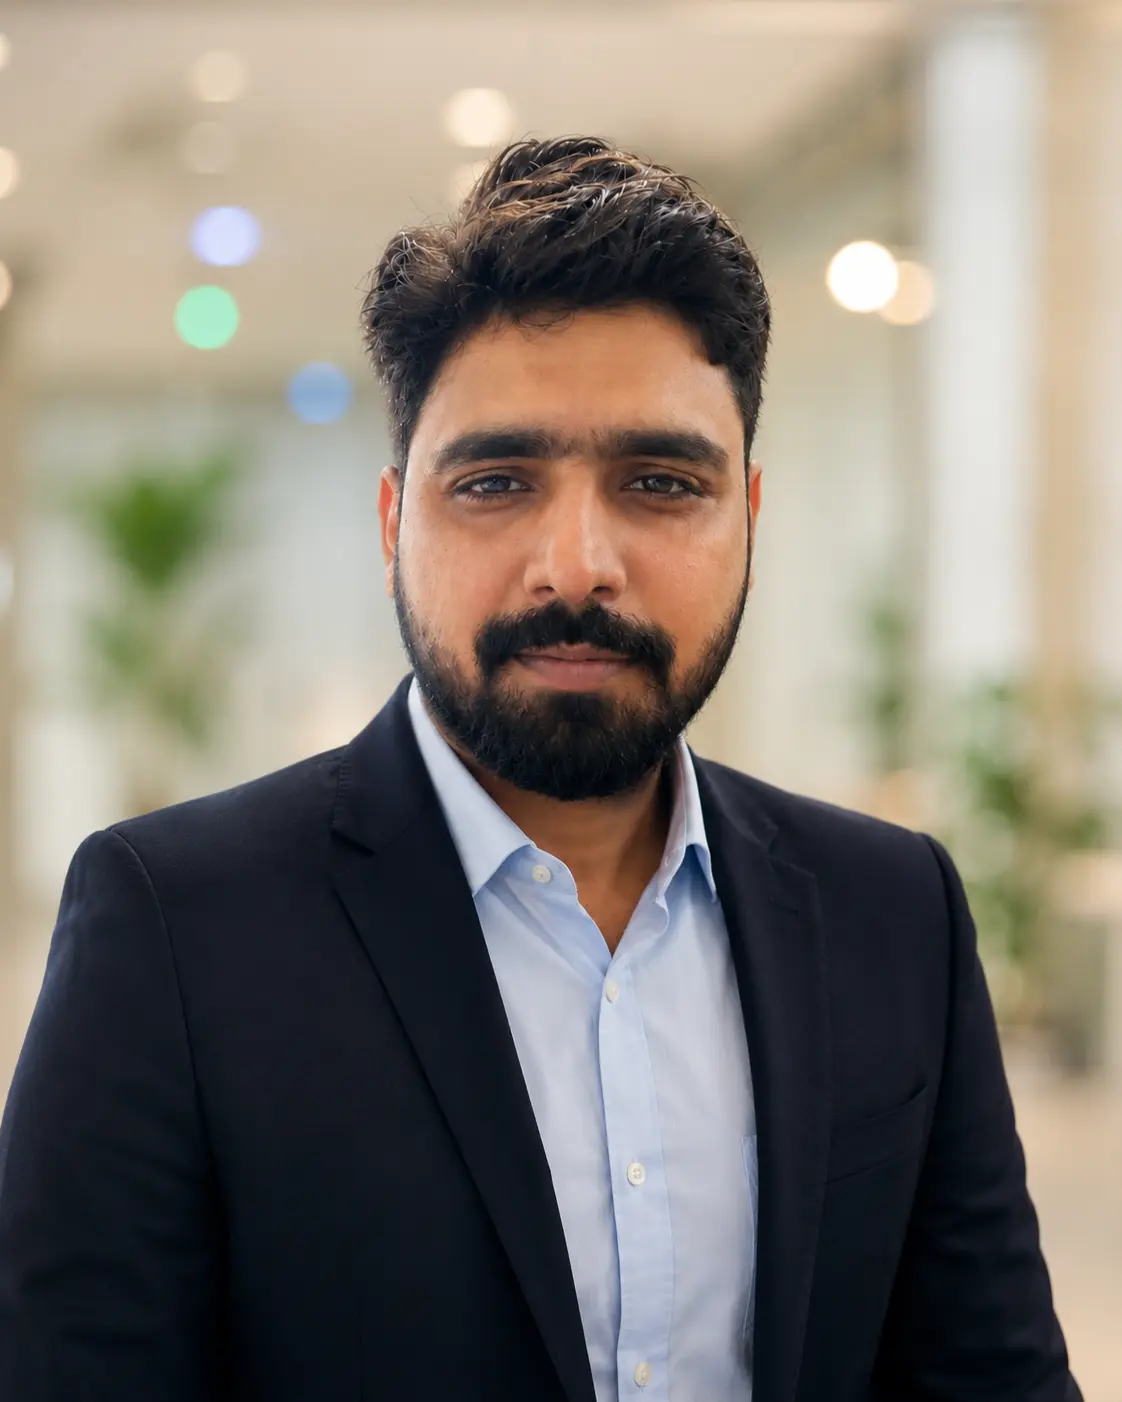
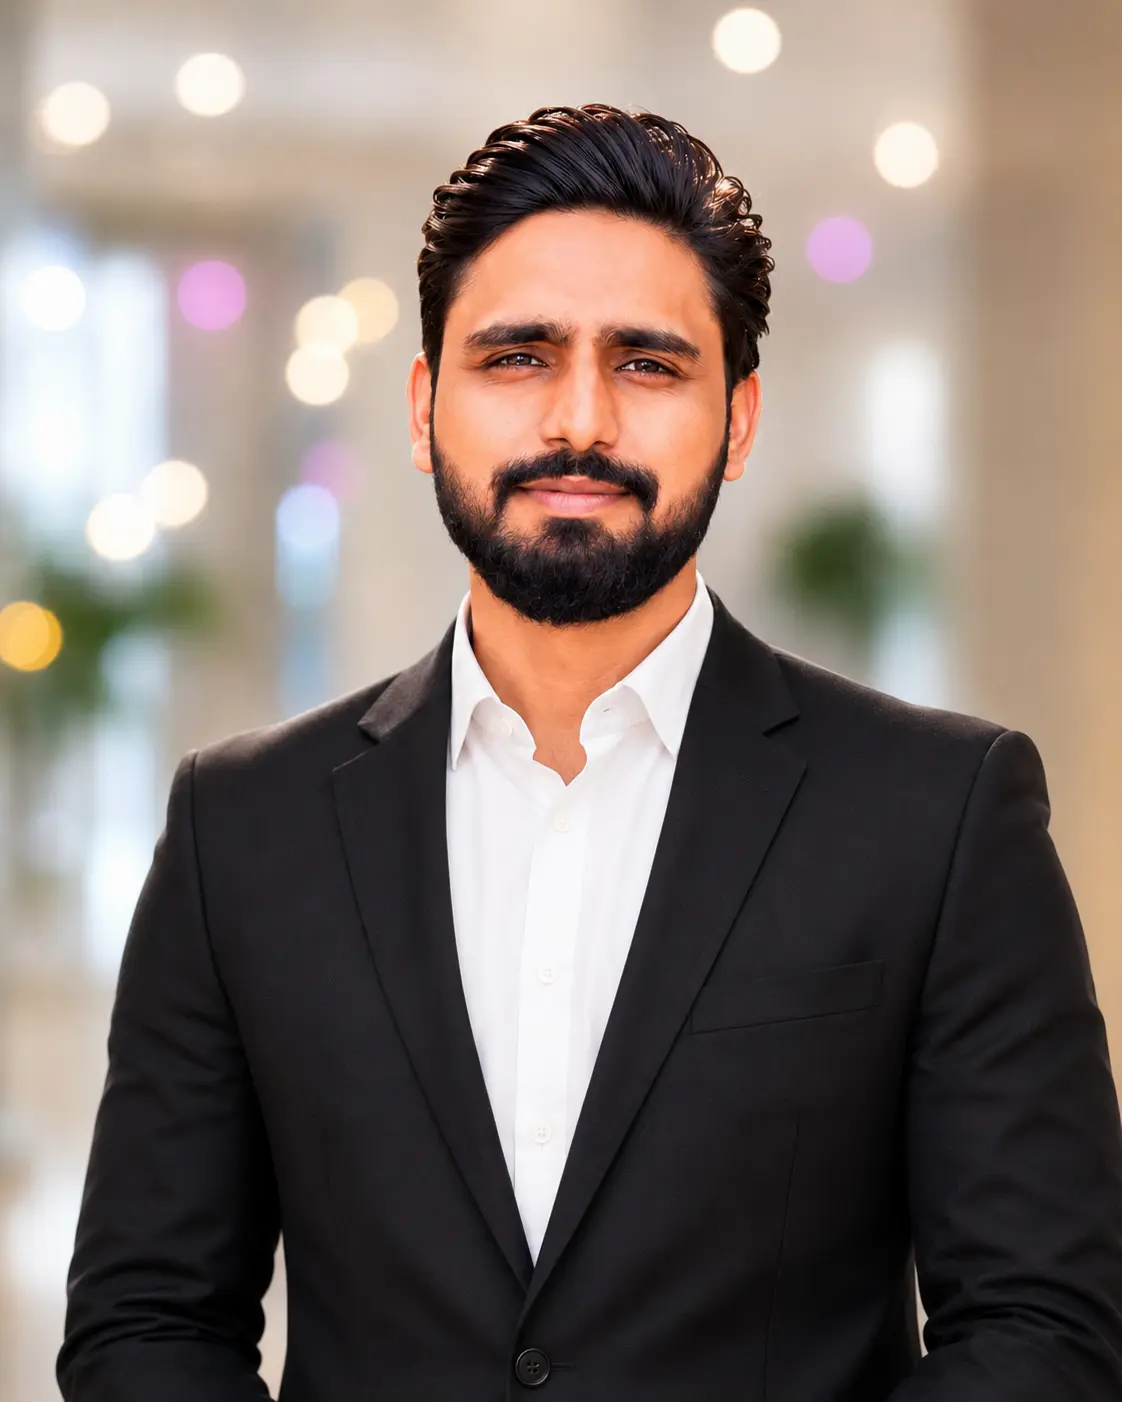
image change

diff --git a/src/data/data.js b/src/data/data.js
@@ -159,7 +159,7 @@ export const drones = [
     id: "arc-mt-280",
     serial: "UAV-FM4-112",
     name: "ARC MT 280",
-    use: "Lightweight surveillance drone optimized for rapid deployment and stable observation.",
+    use: "Rapid-deploy lightweight drone for stable surveillance.",
     image: arc2801,
     gallery: [arc2801, arc2802, arc2803, arc2804],
     model: arc_mt_280,
@@ -213,7 +213,7 @@ export const drones = [
     id: "arc-mt-480ai",
     serial: "UAV-SE5-509",
     name: "ARC MT 480AI",
-    use: "AI Tactical Multirotor UAV designed for ISR missions with modular payload capability.",
+    use: "AI tactical drone built for ISR and adaptable payload deployment.",
     image: arc4801,
     gallery: [arc4801, arc4802, arc4803, arc4804, arc4805],
     model: arc_mt480ai,